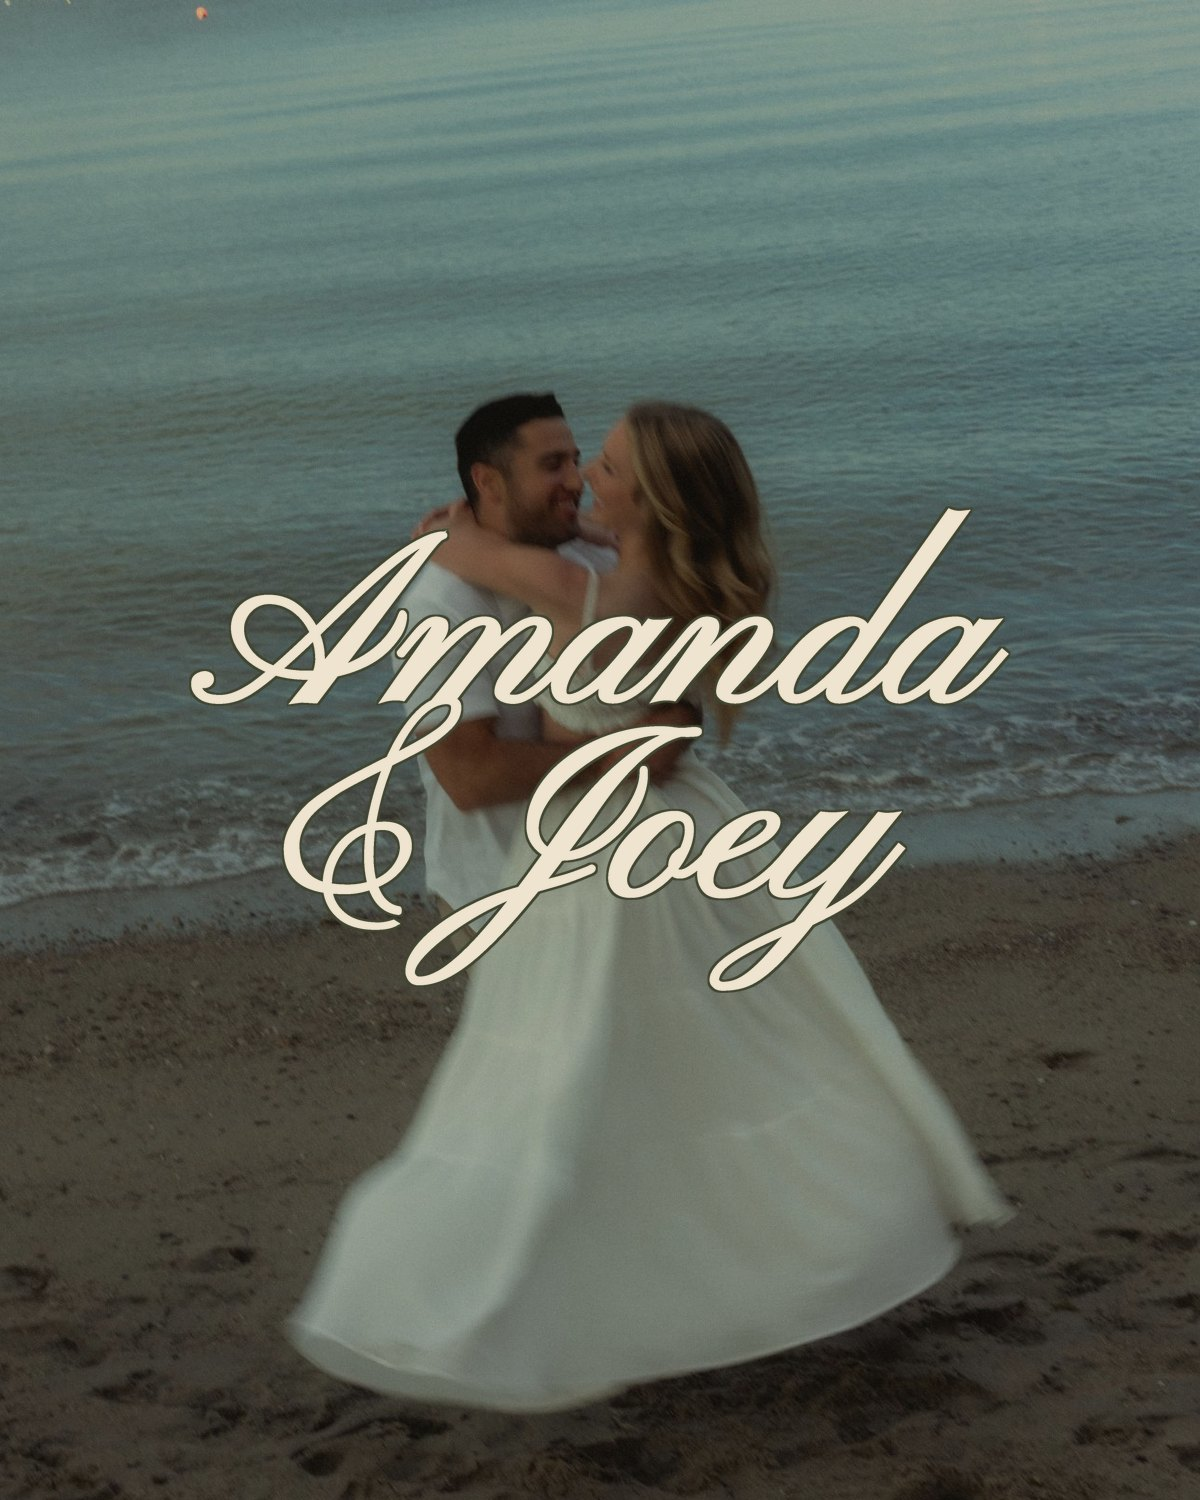
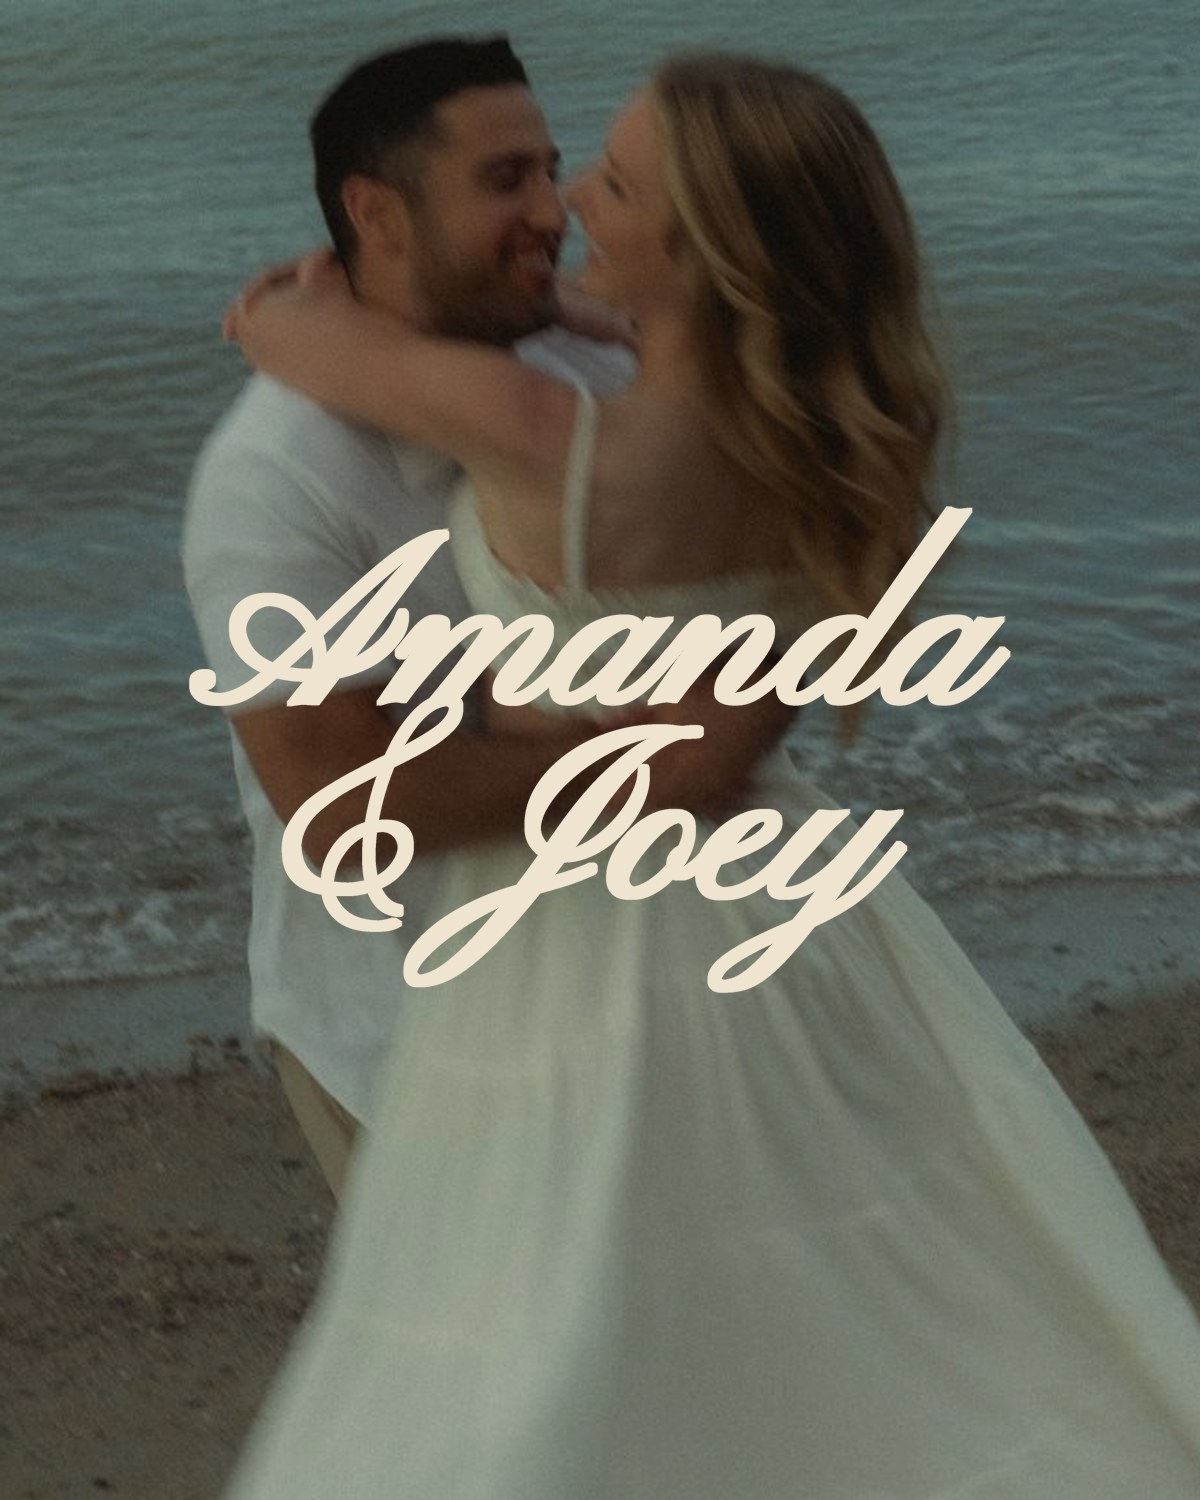
Link preview: 2x closer crop, ivory stroke
Claude-Session: https://claude.ai/code/session_0156h3ygvMb3TAAmJXa58rRv

diff --git a/index.html b/index.html
@@ -5,12 +5,12 @@
 <meta property="og:url" content="https://theteppers.com/">
 <meta property="og:title" content="Amanda &amp; Joseph · Black Tie">
 <meta property="og:description" content="January 29, 2027 · The Addison, Boca Raton">
-<meta property="og:image" content="https://theteppers.com/img/share.jpg?v=2">
+<meta property="og:image" content="https://theteppers.com/img/share.jpg?v=3">
 <meta property="og:image:width" content="1200">
 <meta property="og:image:height" content="1500">
 <meta property="og:image:alt" content="Amanda and Joey on the beach">
 <meta name="twitter:card" content="summary_large_image">
-<meta name="twitter:image" content="https://theteppers.com/img/share.jpg?v=2">
+<meta name="twitter:image" content="https://theteppers.com/img/share.jpg?v=3">
 <meta name="claude:viewport-fit-sides" content="cover">
 <link rel="preconnect" href="https://fonts.googleapis.com">
 <link rel="stylesheet" href="https://fonts.googleapis.com/css2?family=Fraunces:ital,opsz,wght,SOFT@0,9..144,300..600,0..100;1,9..144,300..600,0..100&family=Hanken+Grotesk:ital,wght@0,300;0,400;0,500;1,300;1,400&family=Pinyon+Script&display=swap">
